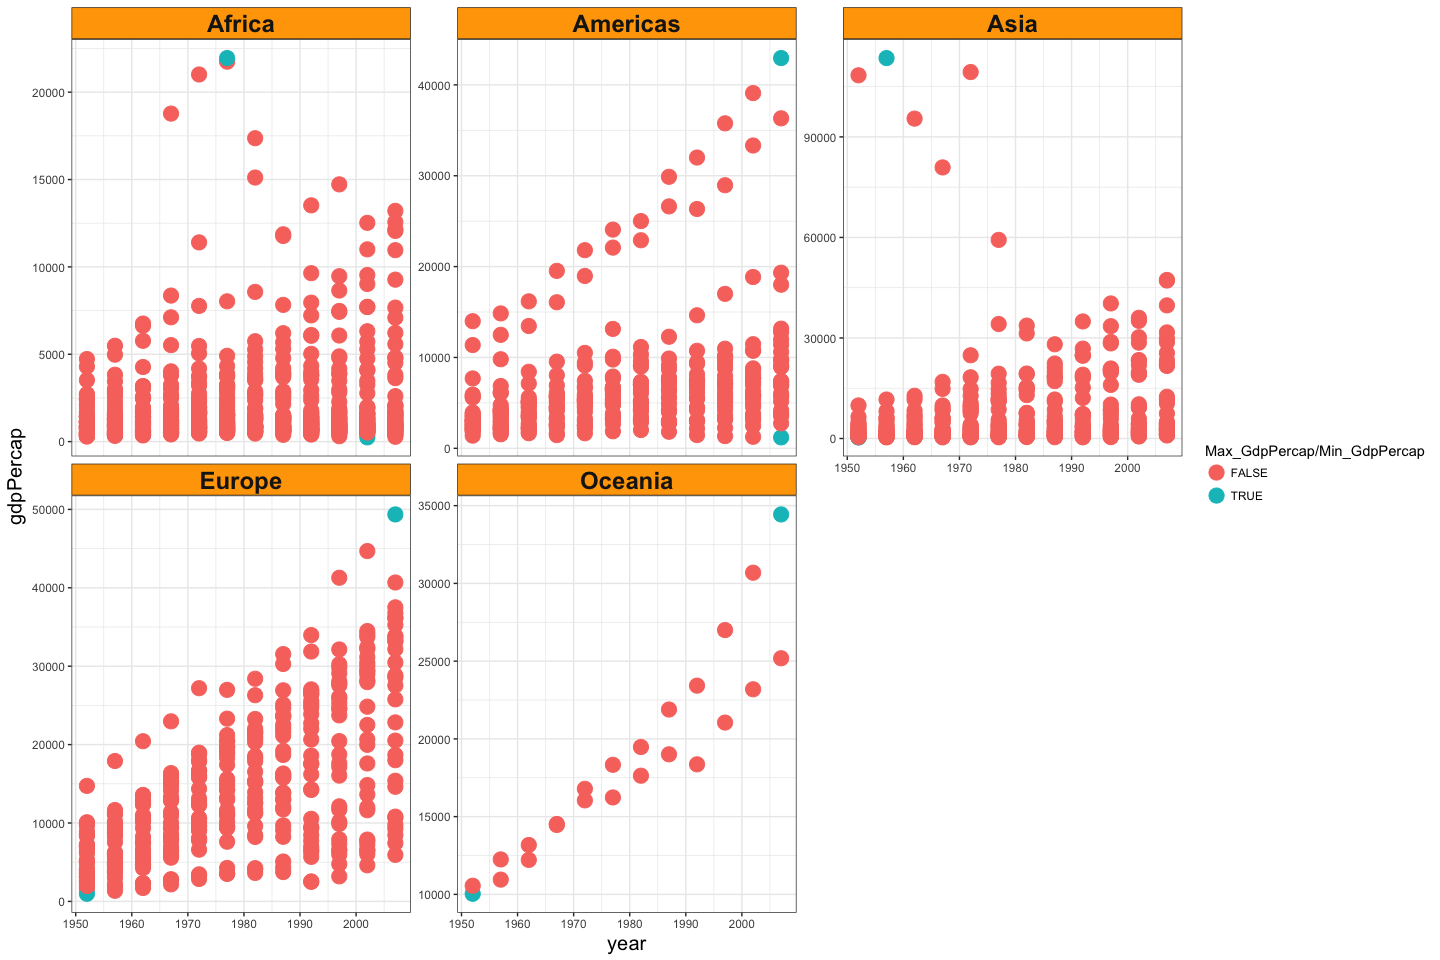
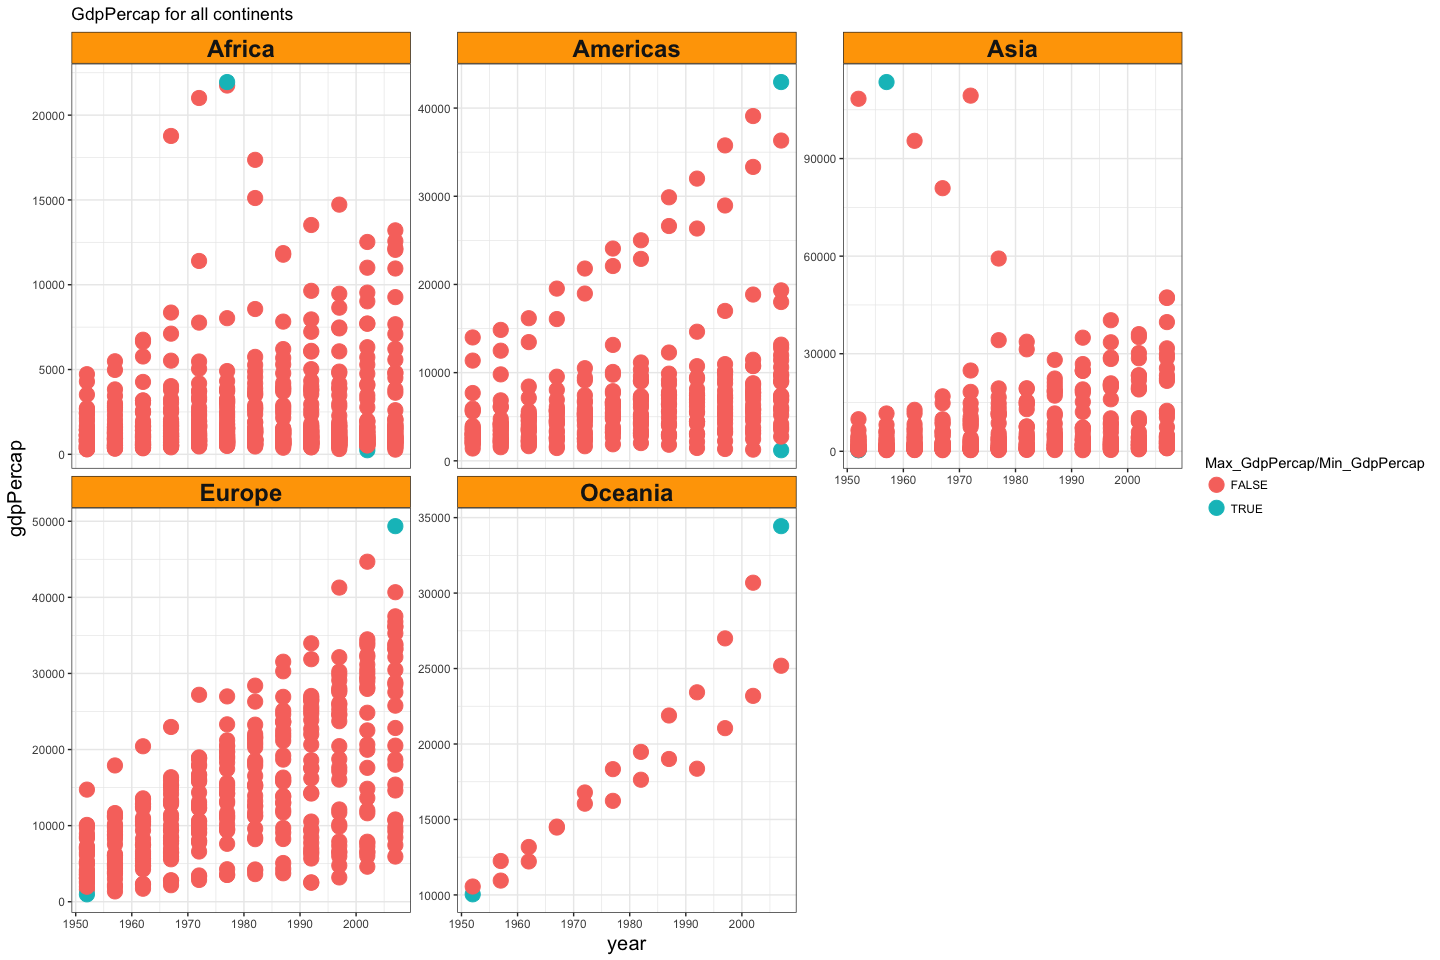
Finish Task2

diff --git a/hw03/hw03-Tang-Jiahui.md b/hw03/hw03-Tang-Jiahui.md
@@ -12,7 +12,7 @@ knitr::opts_chunk$set(fig.width=15, fig.height=10)
 Task1: Get the maximum and minimum of GDP per capita for all continents.
 ------------------------------------------------------------------------
 
-*To get the maximum and minimum of GdpPercap for continents, I firstly used summarise() to obtain max and min values for each continent, then filter() and mutate() to print the detailed information of the countries which have the max or min GDP per captia, finally created a new data.frame to show all the values above.*
+*To get the maximum and minimum of GdpPercap for continents, I firstly used summarise() to obtain max and min values for each continent, then filter() and mutate() to print the detailed information of the countries which have the max or min GDP per capita, finally created a new data.frame to show all the values above.*
 
 ``` r
 T1 <- gapminder %>% 
@@ -51,8 +51,53 @@ P2 <- P1 + facet_wrap(~ continent, scales = "free_y") +
         axis.title.x = element_text(size=15),
         axis.title.y = element_text(size=15),
         strip.text = element_text(size=18, face="bold"))+
+  labs(title="GdpPercap for all continents")+
   scale_colour_discrete("Max_GdpPercap/Min_GdpPercap")
 P2
 ```
 
 ![](hw03-Tang-Jiahui_files/figure-markdown_github-ascii_identifiers/unnamed-chunk-3-1.png)
+
+Task2: Look at the spread of GDP per capita within the continents.
+------------------------------------------------------------------
+
+*We can directly use summarise() to get mean, sd and max/min values of GDP per capita for each continent.From the table shown below, we can find that the sd value of Asia is the largest, while Africa has the smallest sd value. In addition, Europe has the largest mean value of GdpPercap.*
+
+``` r
+T2 <-gapminder %>% 
+  group_by(continent) %>% 
+  summarise(min_gdpPercap = min(gdpPercap), max_gdpPercap = max(gdpPercap),
+            mean_gdpPercap = mean(gdpPercap), sd_gdpPercap = sd(gdpPercap))
+
+knitr::kable(T2)
+```
+
+| continent |  min\_gdpPercap|  max\_gdpPercap|  mean\_gdpPercap|  sd\_gdpPercap|
+|:----------|---------------:|---------------:|----------------:|--------------:|
+| Africa    |        241.1659|        21951.21|         2193.755|       2827.930|
+| Americas  |       1201.6372|        42951.65|         7136.110|       6396.764|
+| Asia      |        331.0000|       113523.13|         7902.150|      14045.373|
+| Europe    |        973.5332|        49357.19|        14469.476|       9355.213|
+| Oceania   |      10039.5956|        34435.37|        18621.609|       6358.983|
+
+*We can use geom\_histogram() to make histograms of different continents. The results are similar to the table above.*
+
+``` r
+P3 <- gapminder %>%
+  select(gdpPercap, continent) %>% 
+  ggplot(aes(x = gdpPercap, color = continent))
+P4 <- P3 + geom_histogram() +
+  facet_wrap(~ continent, scales = "free_y") +
+  theme_bw() +
+  theme(strip.background = element_rect(fill="orange"),
+        axis.title.x = element_text(size=15),
+        axis.title.y = element_text(size=15),
+        strip.text = element_text(size=18, face="bold"))+
+  labs(title="GdpPercap histogram for each continent")
+  
+P4
+```
+
+    ## `stat_bin()` using `bins = 30`. Pick better value with `binwidth`.
+
+![](hw03-Tang-Jiahui_files/figure-markdown_github-ascii_identifiers/unnamed-chunk-5-1.png)
